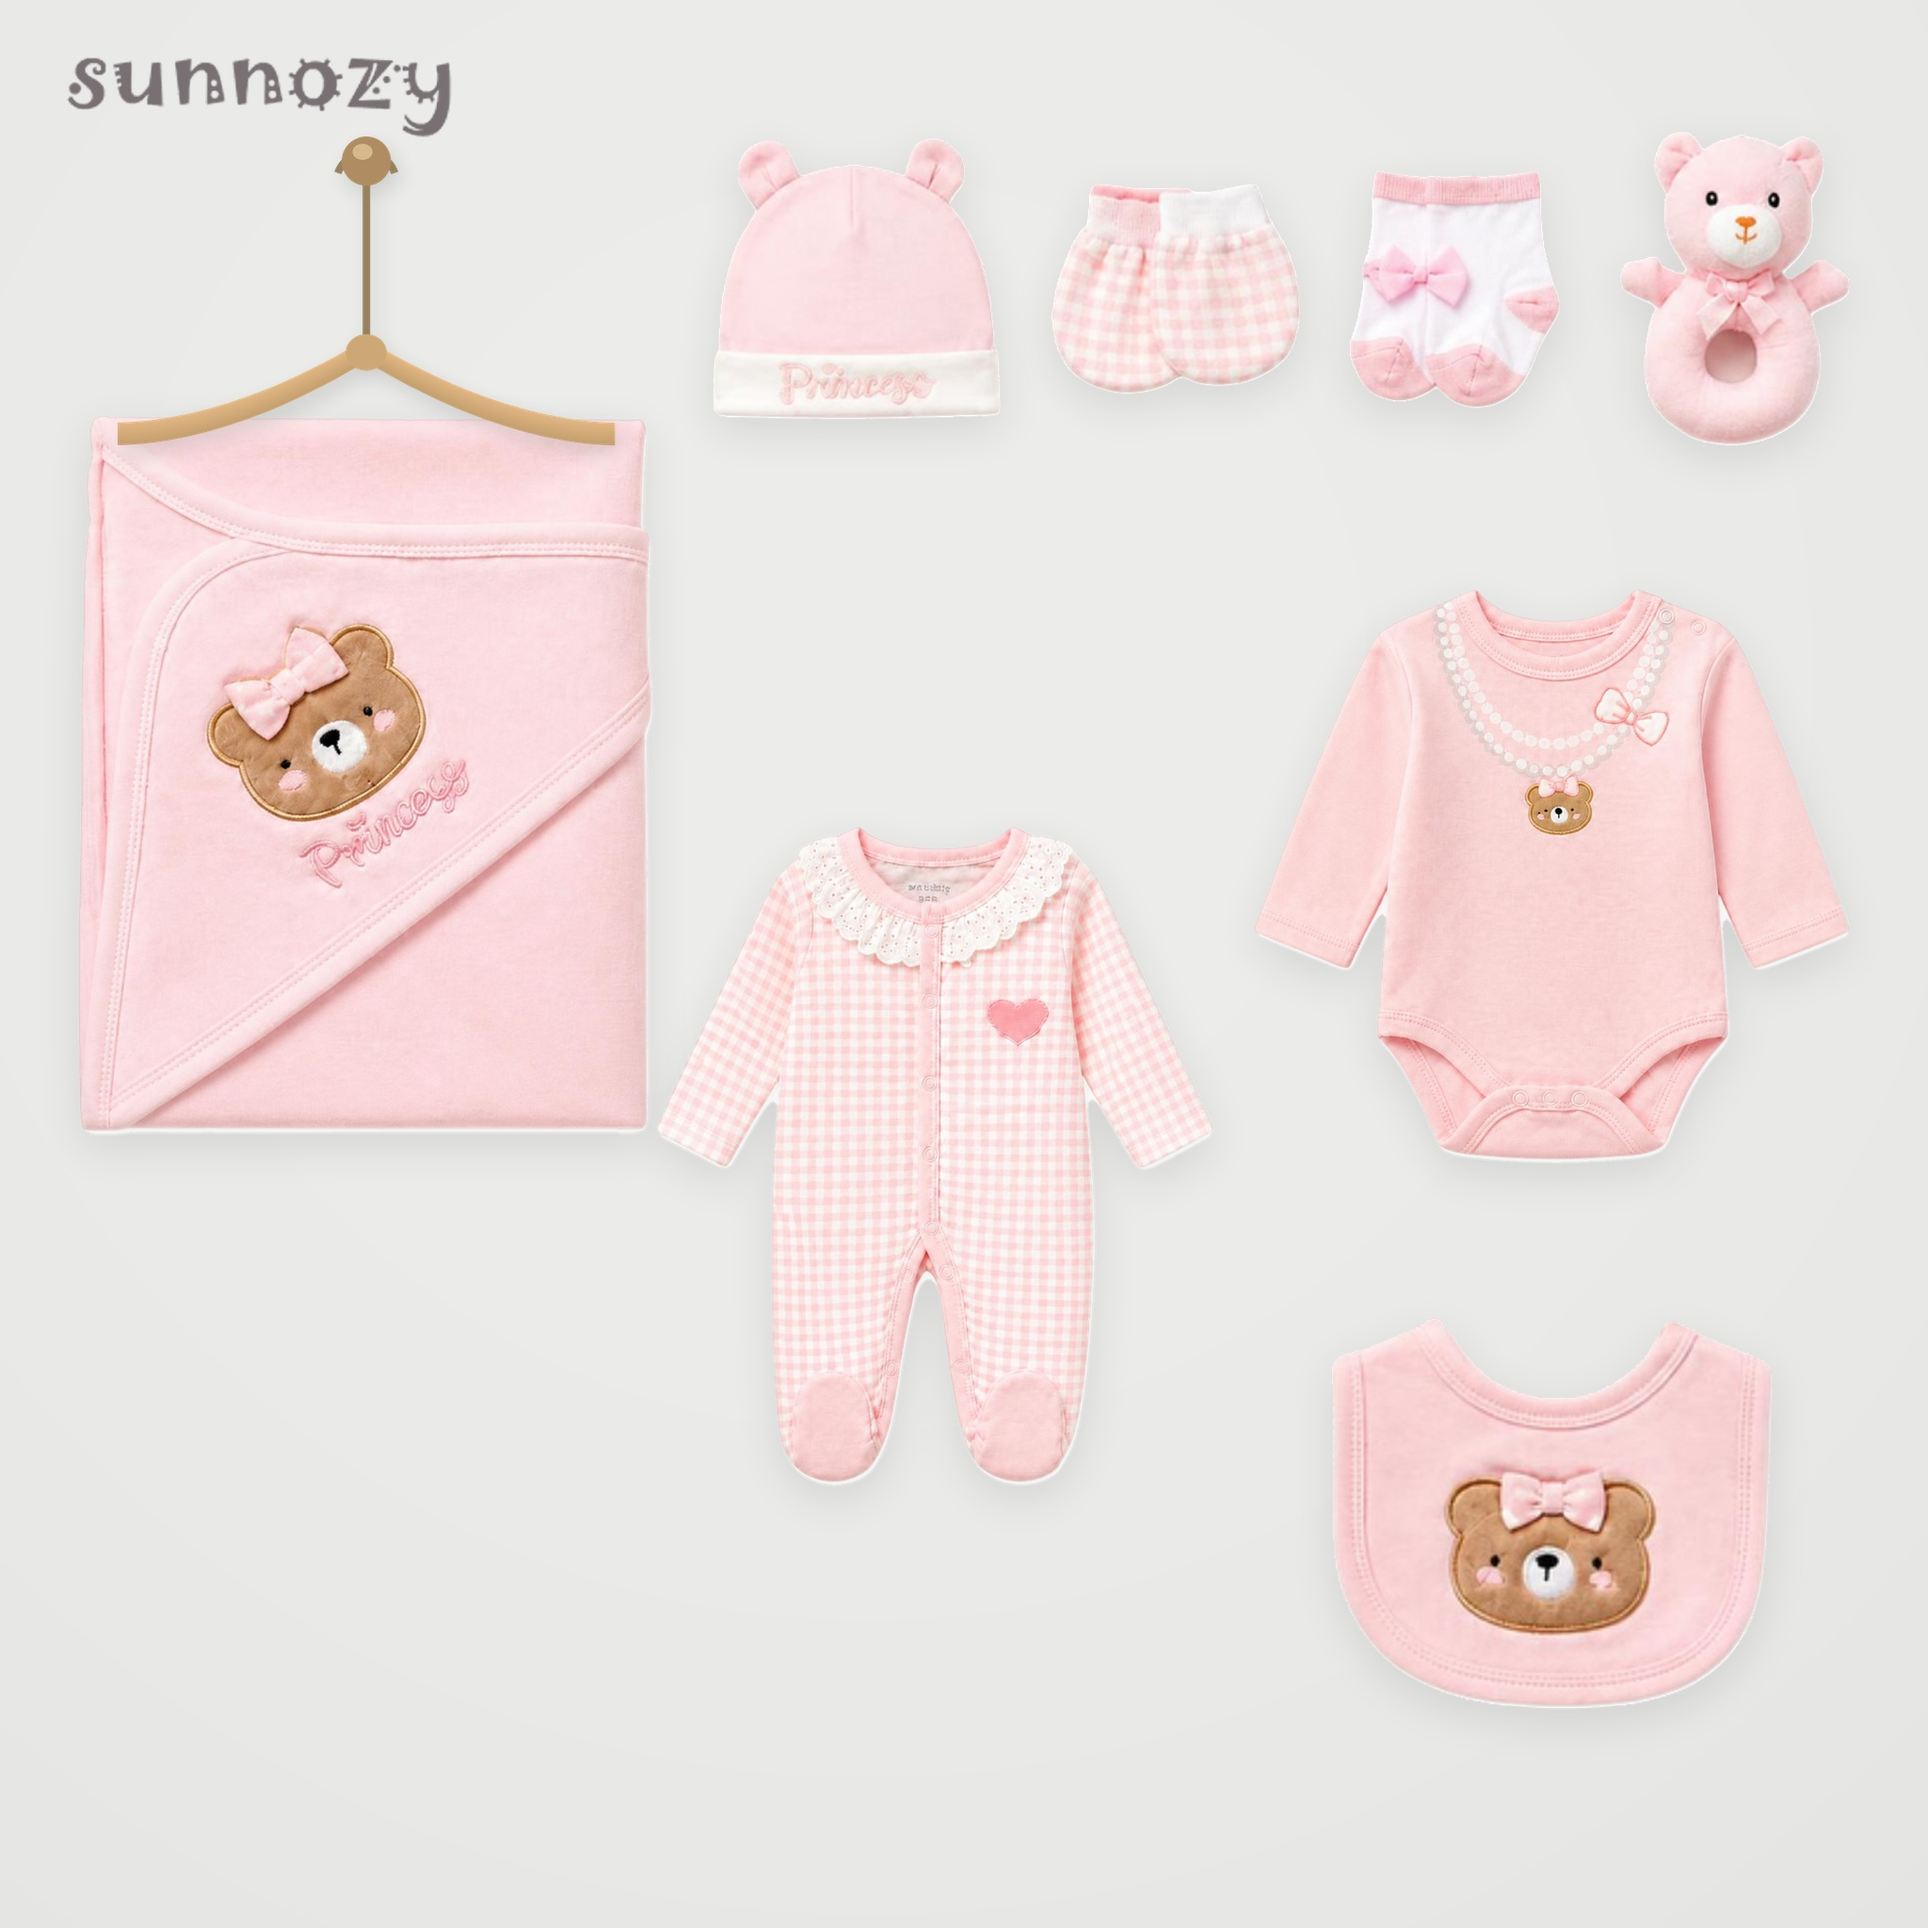
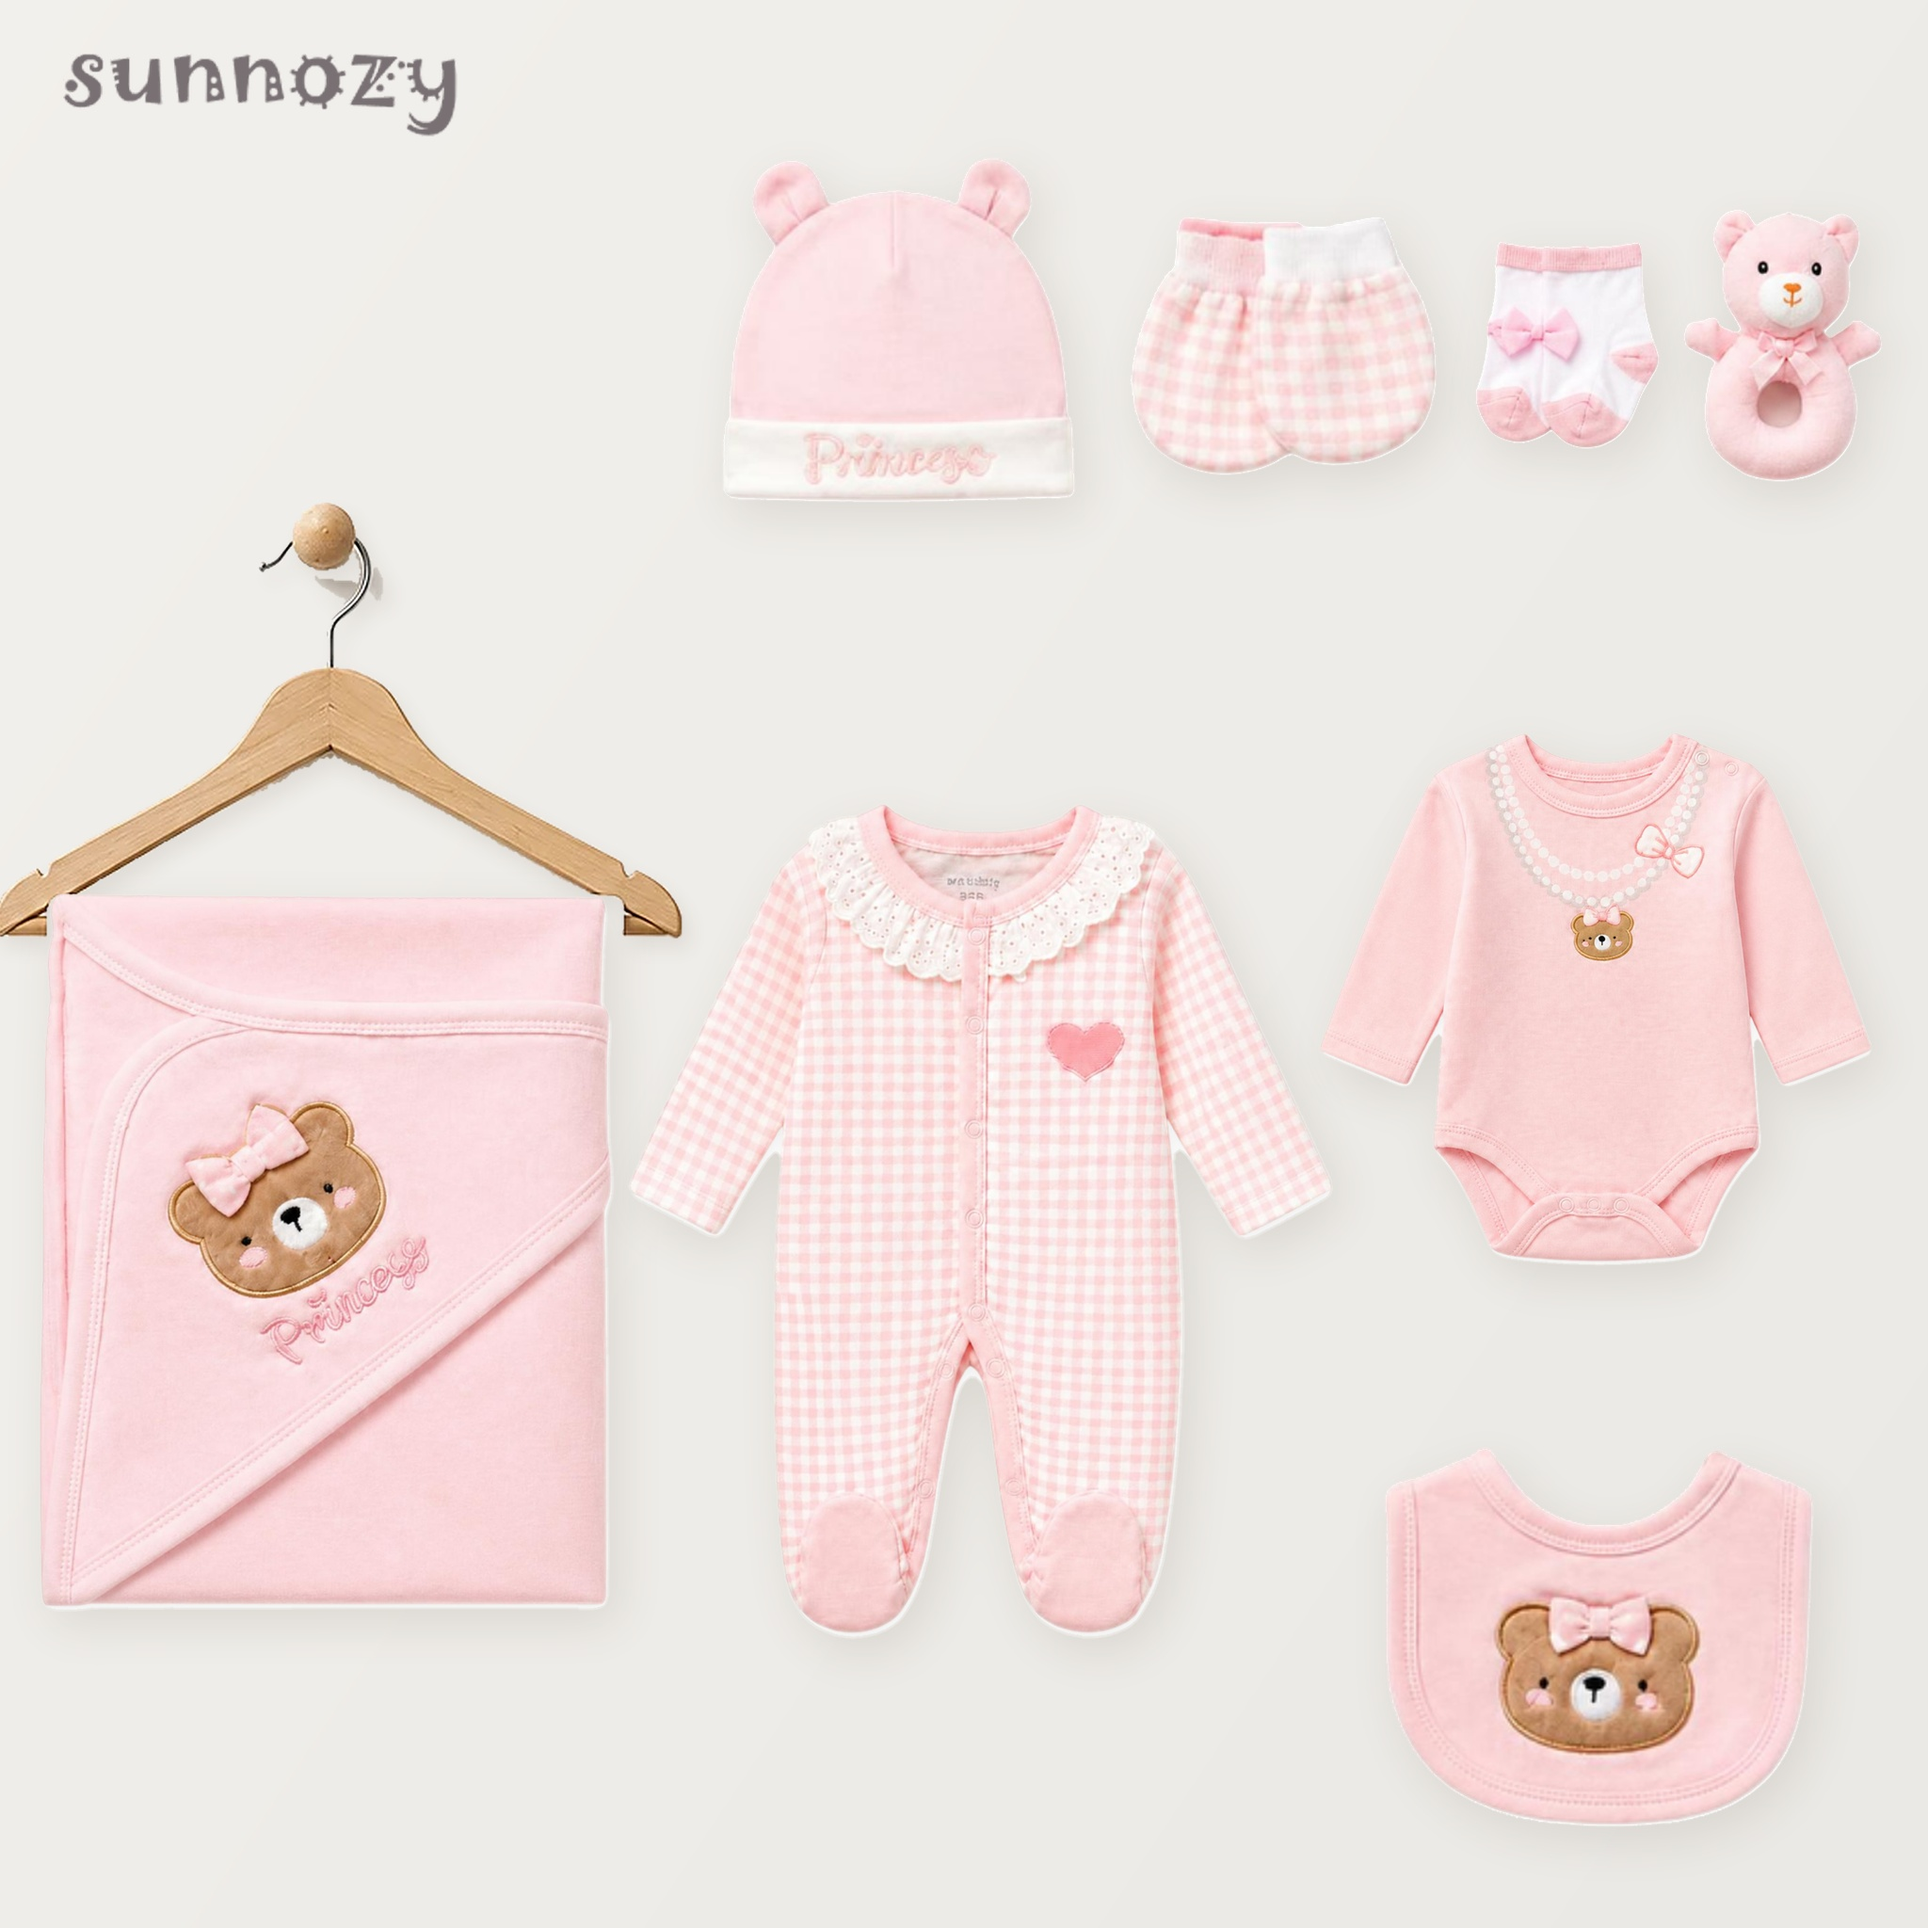
Erstausstattung-Hauptbilder im Stil des Vorbilds: warmer Grund, Holzbügel, grosse Teile
Claude-Session: https://claude.ai/code/session_01Mcsz2CcqhytaxPLftYR6o2

diff --git a/sunnozy-content/tools/make_set_hauptbild.py b/sunnozy-content/tools/make_set_hauptbild.py
@@ -1,7 +1,8 @@
 """Shop-Hauptbild eines Erstausstattungs-Sets aus den scharfen Einzelteil-Bildern (2000 px, reinweiss) zusammenbauen.
 
-Stil wie die KI-Präsentationen: hellgrauer Studio-Hintergrund, Decke oder Strampler auf einem Holzbügel
-am Wandknauf, die übrigen Teile luftig daneben, weiche Schatten, sunnozy-Logo oben links.
+Stil nach dem Vorbild der Nutzerin (Teddybär-Set): warmer, heller Studio-Grund, Decke oder Strampler an einem
+Holzbügel mit Wandknauf (assets/buegel_holz.png), die übrigen Teile gross und geordnet daneben, weiche Schatten,
+sunnozy-Logo oben links.
 Jedes Teil wird verkleinert statt vergrössert, deshalb bleiben Print, Rippen und Spitze scharf.
 
 Aufruf: python3 make_set_hauptbild.py <ausgabeordner> [set ...]
@@ -14,34 +15,36 @@ from scipy import ndimage
 ROOT = os.path.dirname(os.path.dirname(os.path.abspath(__file__)))
 TEILE = os.path.join(ROOT, 'posts', 'marktplatz-galaxus-amazon', 'einzelteile')
 N = 2048
-BG = (231, 231, 230)
+BG = (238, 236, 232)
+BUEGEL = os.path.join(ROOT, 'assets', 'buegel_holz.png')
+B_HAKEN_X, B_SPITZE_Y, B_DECKE_Y = 338, 186, 400     # Ankerpunkte im Bügel-PNG
 
-# Pro Set: Ordner, Dateipräfix, Teil am Bügel und Kästen (x, y, b, h) in Anteilen der Bildbreite.
-# Das Teil wird in seinen Kasten eingepasst; 'oben' richtet es oben statt mittig aus.
+# Pro Set: Ordner, Dateipräfix, Teil am Bügel und Kästen (x0, y0, x1, y1) in Pixeln eines 1254er-Rasters
+# (Masse des Vorbilds). Jedes Teil wird in seinen Kasten eingepasst.
+R = 1254
 SETS = {
     'erstausstattung-set-teddybaer': ('set_teddy_creme', 'set_teddy_creme_', 'decke', {
-        'decke': (0.04, 0.215, 0.30, 0.56), 'strampler': (0.33, 0.28, 0.31, 0.67),
-        'muetze': (0.36, 0.06, 0.15, 0.17), 'socken': (0.535, 0.075, 0.11, 0.15), 'faeustlinge': (0.665, 0.085, 0.13, 0.13),
-        'beissring': (0.65, 0.255, 0.14, 0.09), 'rassel': (0.81, 0.215, 0.15, 0.14),
-        'body': (0.65, 0.39, 0.31, 0.31), 'laetzchen': (0.69, 0.72, 0.24, 0.22)}),
+        'decke': (25, 420, 400, 1210), 'muetze': (490, 70, 710, 360), 'socken': (755, 140, 900, 320),
+        'faeustlinge': (925, 140, 1170, 320), 'beissring': (835, 330, 1010, 480), 'rassel': (1030, 335, 1180, 505),
+        'strampler': (408, 400, 868, 1190), 'body': (858, 505, 1218, 958), 'laetzchen': (922, 962, 1172, 1210)}),
     'erstausstattung-set-princess': ('set_rosa', 'set_rosa_', 'decke', {
-        'decke': (0.04, 0.215, 0.30, 0.52), 'strampler': (0.34, 0.30, 0.29, 0.60),
-        'muetze': (0.37, 0.06, 0.15, 0.17), 'faeustlinge': (0.545, 0.085, 0.13, 0.13), 'socken': (0.70, 0.07, 0.11, 0.16),
-        'rassel': (0.84, 0.06, 0.12, 0.18), 'body': (0.65, 0.29, 0.31, 0.33), 'laetzchen': (0.69, 0.67, 0.23, 0.23)}),
+        'decke': (25, 420, 400, 1210), 'muetze': (470, 70, 700, 360), 'faeustlinge': (735, 130, 935, 320),
+        'socken': (960, 120, 1080, 330), 'rassel': (1095, 110, 1225, 340),
+        'strampler': (408, 400, 868, 1190), 'body': (858, 400, 1218, 900), 'laetzchen': (900, 920, 1180, 1210)}),
     'erstausstattung-set-little-and-loved': ('set_little_and_loved_gans_rosa', '', 'strampler', {
-        'strampler': (0.03, 0.215, 0.26, 0.70), 'muetze': (0.31, 0.06, 0.18, 0.17), 'faeustlinge': (0.52, 0.08, 0.15, 0.13),
-        'laetzchen': (0.72, 0.05, 0.22, 0.22), 'body': (0.32, 0.29, 0.28, 0.30), 'jaeckchen': (0.63, 0.31, 0.32, 0.29),
-        'shirt': (0.32, 0.63, 0.28, 0.25), 'hose': (0.66, 0.62, 0.25, 0.34)}),
+        'strampler': (25, 330, 405, 1200), 'muetze': (460, 70, 690, 330), 'faeustlinge': (725, 120, 935, 300),
+        'laetzchen': (965, 60, 1215, 390), 'body': (440, 410, 820, 820), 'jaeckchen': (845, 420, 1225, 830),
+        'shirt': (445, 860, 815, 1195), 'hose': (870, 850, 1200, 1225)}),
     'erstausstattung-set-hello-world': ('set_hello_world_blatt_creme', '', 'strampler', {
-        'strampler': (0.03, 0.215, 0.26, 0.70), 'muetze': (0.31, 0.06, 0.18, 0.17), 'faeustlinge': (0.52, 0.08, 0.15, 0.13),
-        'laetzchen': (0.74, 0.05, 0.19, 0.22), 'jaeckchen': (0.32, 0.30, 0.30, 0.28), 'body': (0.65, 0.29, 0.28, 0.31),
-        'shirt': (0.32, 0.63, 0.28, 0.25), 'hose': (0.67, 0.62, 0.24, 0.34)}),
+        'strampler': (25, 330, 405, 1200), 'muetze': (460, 70, 690, 330), 'faeustlinge': (725, 120, 935, 300),
+        'laetzchen': (980, 60, 1200, 390), 'jaeckchen': (430, 420, 820, 810), 'body': (850, 410, 1220, 830),
+        'shirt': (445, 860, 815, 1195), 'hose': (880, 850, 1190, 1225)}),
     'erstausstattung-set-hello-spitze': ('set_hello_schmetterling', 'set_hello_schmetterling_', 'decke', {
-        'decke': (0.03, 0.22, 0.38, 0.70), 'haeubchen': (0.47, 0.07, 0.20, 0.24), 'laetzchen': (0.72, 0.08, 0.26, 0.25),
-        'strampler': (0.42, 0.37, 0.20, 0.59), 'body': (0.62, 0.38, 0.20, 0.34), 'hose': (0.81, 0.38, 0.17, 0.58)}),
+        'decke': (25, 420, 410, 1210), 'haeubchen': (500, 70, 720, 360), 'laetzchen': (800, 80, 1170, 420),
+        'strampler': (430, 420, 850, 1200), 'body': (860, 450, 1220, 840), 'hose': (890, 850, 1200, 1220)}),
     'erstausstattung-set-hello-little-bear': ('set_little_bear', 'set_little_bear_', 'strampler', {
-        'strampler': (0.03, 0.215, 0.40, 0.75), 'muetze': (0.53, 0.06, 0.24, 0.24), 'body': (0.44, 0.34, 0.30, 0.38),
-        'laetzchen': (0.76, 0.36, 0.21, 0.30), 'faeustlinge': (0.58, 0.76, 0.24, 0.18)}),
+        'strampler': (15, 360, 660, 1235), 'muetze': (690, 110, 950, 400), 'faeustlinge': (975, 150, 1230, 380),
+        'body': (680, 480, 1010, 1080), 'laetzchen': (1015, 600, 1240, 1000)}),
 }
 
 
@@ -73,57 +76,35 @@ def freistellen(path):
 
 
 def einpassen(t, box, oben=False):
-    x, y, w, h = (v * N for v in box)
-    s = min(w / t.width, h / t.height)
-    t = t.resize((round(t.width * s), round(t.height * s)), Image.LANCZOS)
-    return t, (int(x + (w - t.width) / 2), int(y if oben else y + (h - t.height) / 2))
+    x0, y0, x1, y1 = (v * N / R for v in box)
+    w, h = x1 - x0, y1 - y0
+    k = min(w / t.width, h / t.height)
+    t = t.resize((round(t.width * k), round(t.height * k)), Image.LANCZOS)
+    return t, (int(x0 + (w - t.width) / 2), int(y0 if oben else y0 + (h - t.height) / 2))
 
 
-def schatten(c, t, pos, off=(0, 14), blur=22, staerke=0.20):
+def schatten(c, t, pos, off=(10, 16), blur=24, staerke=0.22):
     sh = Image.new('L', (t.width + 120, t.height + 120), 0)
     sh.paste(t.split()[3], (60, 60))
     sh = sh.filter(ImageFilter.GaussianBlur(blur)).point(lambda v: int(v * staerke))
-    dunkel = Image.new('RGB', sh.size, (120, 120, 118))
+    dunkel = Image.new('RGB', sh.size, (150, 140, 128))
     c.paste(dunkel, (pos[0] - 60 + off[0], pos[1] - 60 + off[1]), sh)
 
 
-def buegel(c, cx, y, breite):
-    """Holzbügel mit Messinghaken an einem Wandknauf, 4-fach überabgetastet für saubere Kanten."""
-    k = 4; W = int(breite * 1.3); H = int(N * 0.20)
-    L = Image.new('RGBA', (W * k, H * k), (0, 0, 0, 0)); d = ImageDraw.Draw(L)
-    mx = W * k // 2
-    knopf_y, bar_y = int(H * 0.12) * k, int(H * 0.80) * k
-    r = int(N * 0.013) * k
-    # Haken
-    d.line([(mx, knopf_y + r), (mx, bar_y - int(H * 0.22) * k)], fill=(150, 130, 95, 255), width=int(N * 0.004) * k)
-    d.arc([mx - int(N * 0.018) * k, knopf_y - r // 2, mx + int(N * 0.018) * k, knopf_y + int(N * 0.03) * k],
-          200, 340, fill=(150, 130, 95, 255), width=int(N * 0.004) * k)
-    # Bügel: zwei Arme, leicht gebogen
-    dicke = int(N * 0.012) * k; halb = int(breite / 2) * k
-    top = bar_y - int(H * 0.22) * k
-    for sgn in (-1, 1):
-        pts = []
-        for i in range(41):
-            u = i / 40
-            pts.append((mx + sgn * u * halb, top + (bar_y - top) * (1 - (1 - u) ** 1.8)))
-        for j in range(dicke):
-            sh = j / dicke
-            col = (int(196 + 30 * (1 - sh)), int(158 + 26 * (1 - sh)), int(110 + 22 * (1 - sh)), 255)
-            d.line([(px, py + j) for px, py in pts], fill=col, width=2)
-    d.ellipse([mx - dicke * 0.9, top - dicke * 0.2, mx + dicke * 0.9, top + dicke * 1.4], fill=(205, 168, 118, 255))
-    # Wandknauf
-    d.ellipse([mx - r, knopf_y - r, mx + r, knopf_y + r], fill=(176, 140, 98, 255))
-    d.ellipse([mx - r * 0.55, knopf_y - r * 0.7, mx + r * 0.25, knopf_y - r * 0.05], fill=(214, 184, 140, 255))
-    L = L.resize((W, H), Image.LANCZOS)
-    pos = (int(cx - W / 2), int(y - H * 0.80))
-    schatten(c, L, pos, off=(6, 10), blur=10, staerke=0.25)
-    c.alpha_composite(L, pos)
-    return pos[1] + int(H * 0.80) - int(H * 0.22)   # Oberkante des Bügels
+def buegel(c, t, pos, decke):
+    """Holzbügel hinter das Teil setzen. Decke: liegt über der Stange. Strampler: Bügel steckt in den Schultern."""
+    B = Image.open(BUEGEL)
+    k = t.width / 555 if decke else t.width * 0.78 / B.width
+    B = B.resize((round(B.width * k), round(B.height * k)), Image.LANCZOS)
+    x = pos[0] + t.width // 2 - round(B_HAKEN_X * k)
+    y = pos[1] - round((B_DECKE_Y if decke else B_SPITZE_Y + 25) * k)
+    schatten(c, B, (x, y), off=(8, 12), blur=10, staerke=0.18)
+    c.alpha_composite(B, (x, y))
 
 
 def hintergrund():
     yy, xx = np.mgrid[0:N, 0:N] / N
-    licht = 1 + 0.025 * (1 - ((xx - 0.45) ** 2 + (yy - 0.35) ** 2) * 2)
+    licht = 1.018 - 0.03 * (0.6 * xx + 0.4 * yy)       # links oben etwas heller, wie im Vorbild
     a = np.clip(np.array(BG)[None, None, :] * licht[..., None], 0, 255).astype(np.uint8)
     return Image.fromarray(a, 'RGB').convert('RGBA')
 
@@ -141,14 +122,12 @@ def bauen(handle):
     c = hintergrund()
     for name, box in kaesten.items():
         t = freistellen(os.path.join(TEILE, ordner, prefix + name + '.jpg'))
-        t, pos = einpassen(t, box, oben=(name == am_buegel))
+        t, pos = einpassen(t, box, oben=(name == am_buegel and name != 'decke'))
+        if name == am_buegel:
+            buegel(c, t, pos, decke=(name == 'decke'))
         schatten(c, t, pos)
         c.alpha_composite(t, pos)
-        if name == am_buegel:
-            strampler = name == 'strampler'
-            buegel(c, pos[0] + t.width // 2, pos[1] + t.height * (0.075 if strampler else 0.012),
-                   t.width * (0.56 if strampler else 0.86))
-    lg = logo(int(N * 0.2)); c.alpha_composite(lg, (int(N * 0.035), int(N * 0.03)))
+    lg = logo(int(N * 0.205)); c.alpha_composite(lg, (int(N * 0.033), int(N * 0.028)))
     return c.convert('RGB')
 
 

diff --git a/sunnozy-content/posts/shopify-hauptbilder-praesentation-hd/README.md b/sunnozy-content/posts/shopify-hauptbilder-praesentation-hd/README.md
@@ -1,6 +1,6 @@
 # Shopify-Hauptbilder Erstausstattung: neu aus den Einzelteilen gebaut (2048 px)
 
-Die neuen Hauptbilder sind im Stil der Set-Präsentation gestaltet: hellgrauer Studio-Hintergrund, Decke oder Strampler auf einem Holzbügel am Wandknauf, die übrigen Teile luftig daneben, weiche Schatten und das sunnozy-Logo oben links.
+Die neuen Hauptbilder folgen dem Vorbild der Nutzerin (Teddybär-Set aus ChatGPT): warmer, heller Studio-Grund, Decke oder Strampler an einem Holzbügel mit Wandknauf, die übrigen Teile gross und geordnet daneben, weiche Schatten und das sunnozy-Logo oben links. Der Holzbügel ist aus diesem Vorbild freigestellt (`assets/buegel_holz.png`).
 
 **Darum sind sie scharf:** Die alte Präsentation war ein einziges KI-Bild mit 1264 px, darin hatte jedes Teil nur rund 300 px. Jetzt wird jedes Teil einzeln aus seinem 2000-px-Bild (`marktplatz-galaxus-amazon/einzelteile/`) freigestellt und für das Gesamtbild **verkleinert** statt vergrössert. So bleiben Karomuster, Rippen, Spitze und Schrift scharf. Das Endformat ist 2048 × 2048 px, wie von Shopify empfohlen.
 
